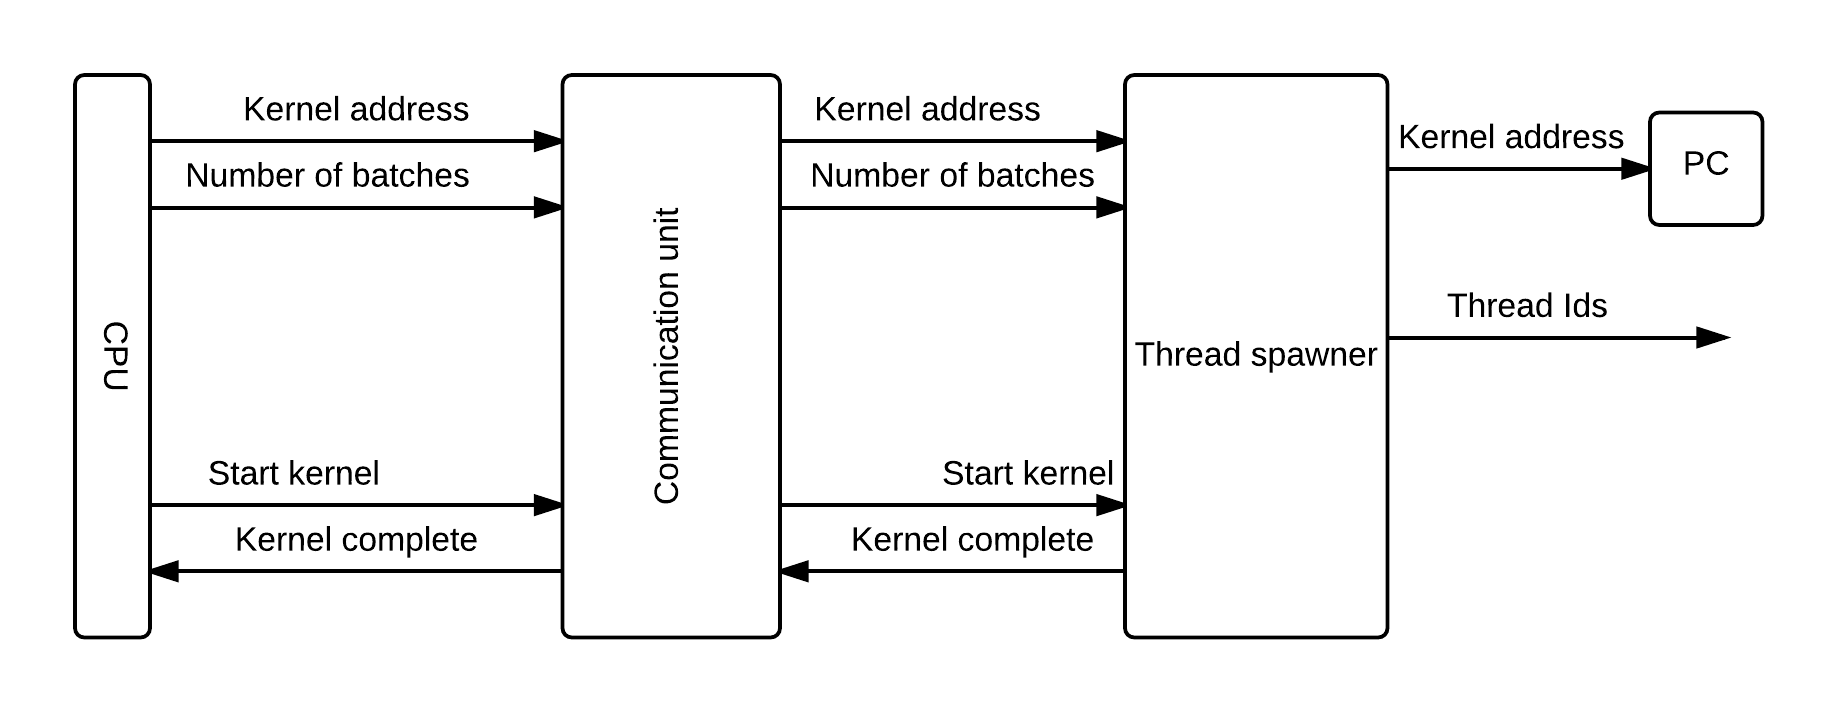
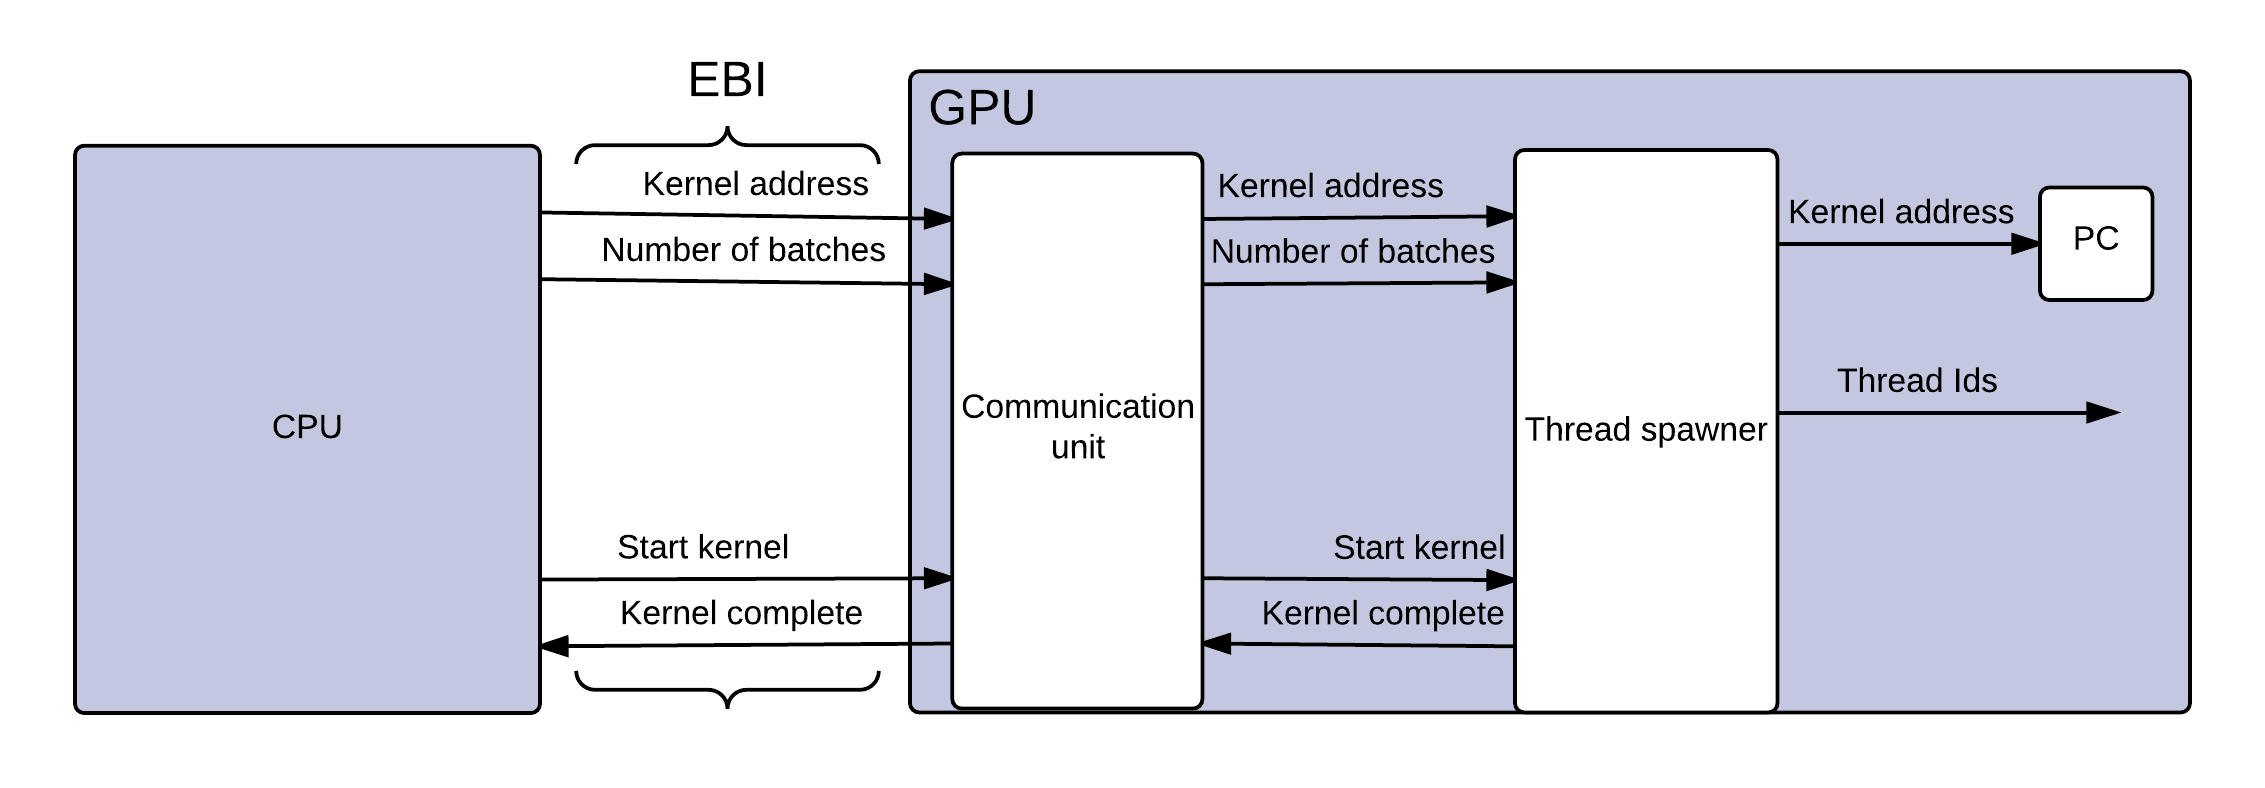
kernel launch

diff --git a/report/gpu/gpu.tex b/report/gpu/gpu.tex
@@ -49,11 +49,12 @@ The processors load constants from the constant memory, and uses the load/store 
 \label{fig:kernel_call}
 \end{figure}
 
-The communication unit is responsible for receiving kernel call requests from the CPU, and initiating the request.
-A valid kernel call consists of the address of the kernel, the number of batches to launch, and asserting the launch signal.
+The communication unit is responsible for receiving kernel call requests from the CPU.
+When a kernel call is received, the kernel launch signal is asserted.
+A kernel call consists of the address of the kernel, and the number of threads to launch.
 
-The kernel launch signals are forwarded to the thread spawner, which writes the kernel start address to the PC register, and starts distributing threadIDs to the streaming processors. 
-After holding the kernel launch signals high for one clock cycle, the communication unit has completed its role in launching the kernel.
+The kernel launch signals are forwarded to the thread spawner, which writes the kernel start address to the PC register, and starts distributing thread IDs to the processor cores. 
+After holding the kernel launch signals high, the communication unit has completed its role in launching the kernel.
 When the kernel completes executing, the thread spawner asserts the kernel done signal, and the communication unit forwards the signal to the CPU, indicating that the kernel call has completed.
 
 
